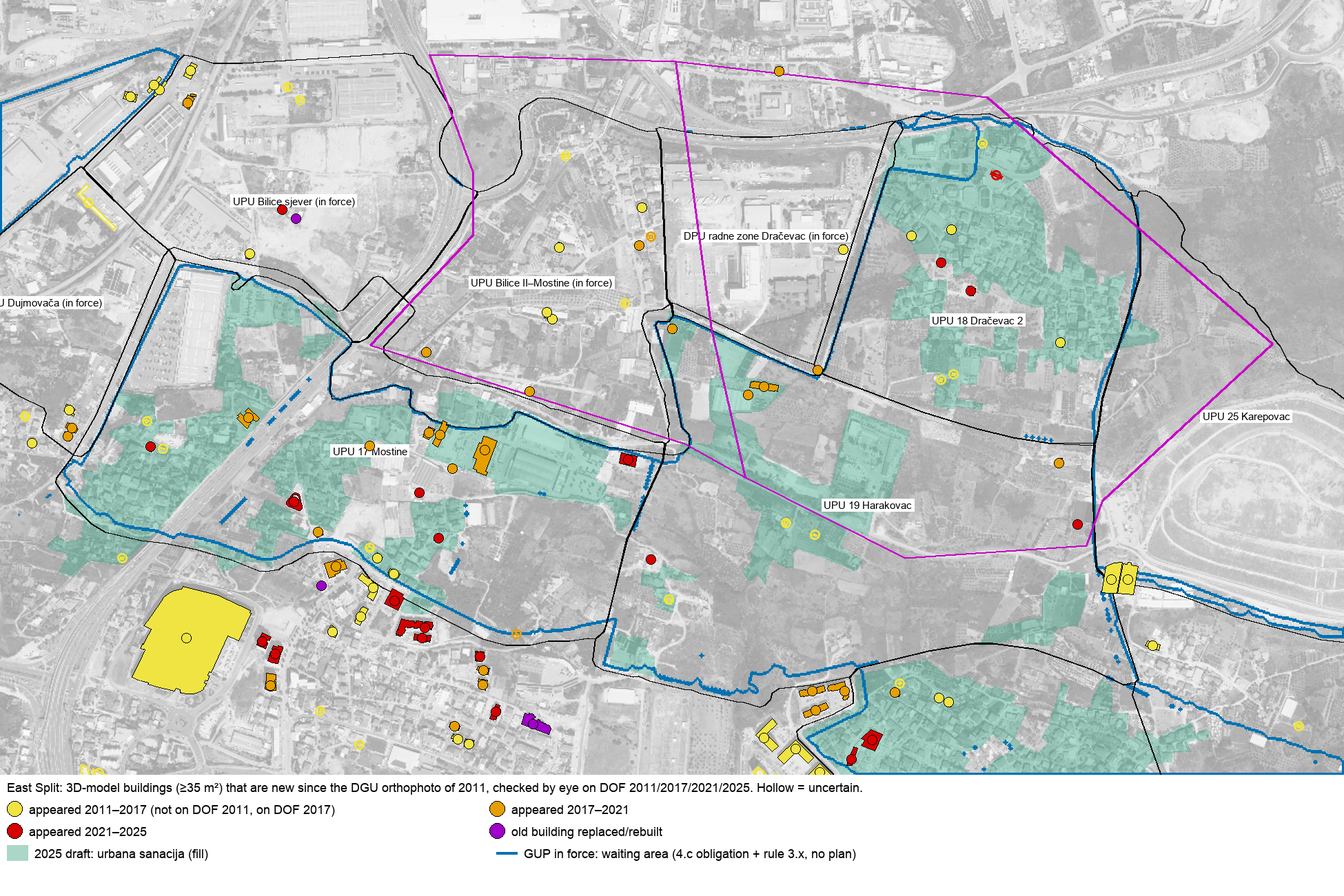
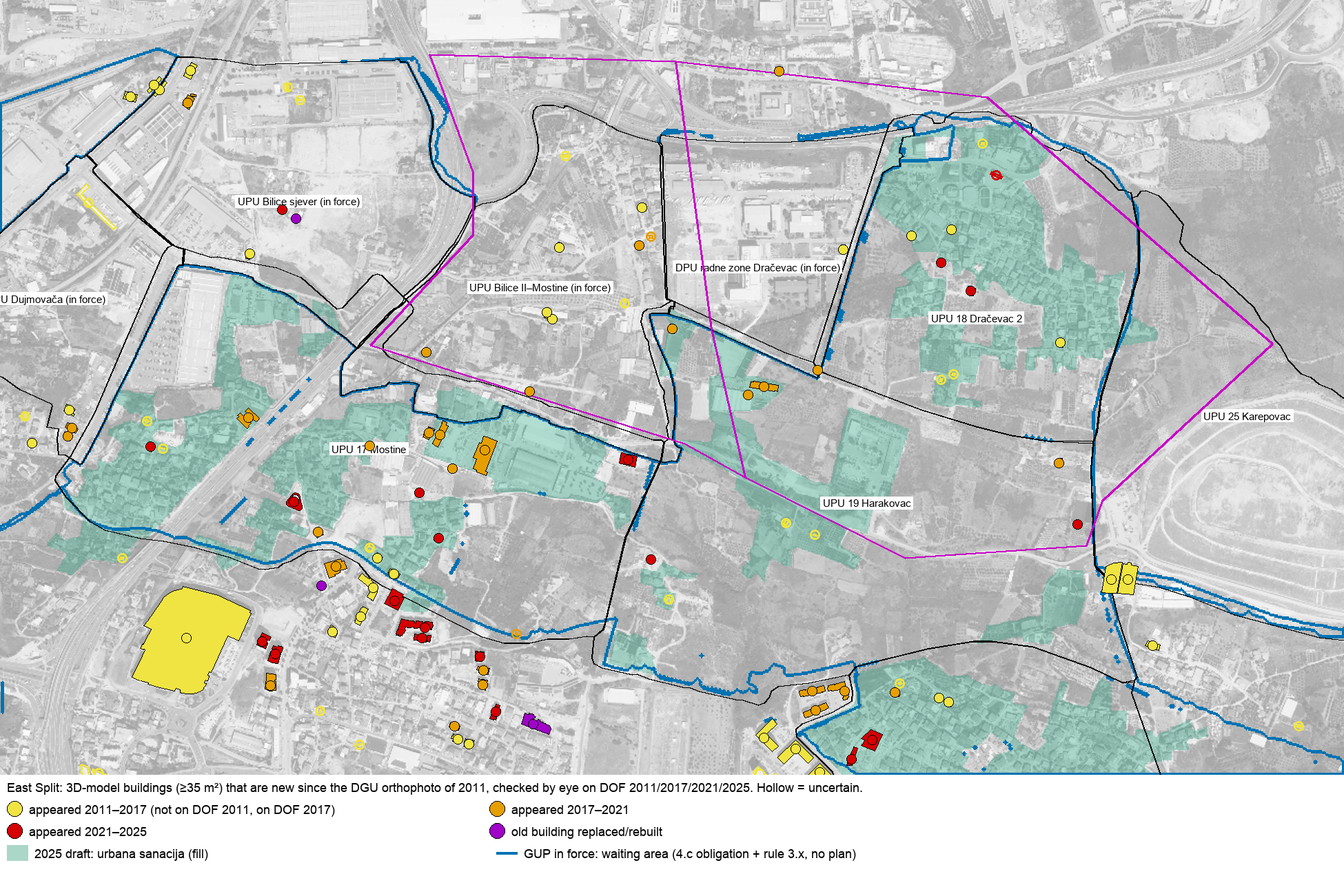
Izvještaj o zabrani do UPU-a: brojke po ispravljenim listovima i česticama
- Q1 i Q5 ponovno izračunati nakon pomaka listova 4.d/4.c prema listu 1,
  obuhvata planova na snazi s ISPU-a i bez ispune skrivene pod bijelim
  plohama (93 % umjesto 92 %, 635 umjesto 617 zgrada; slike 1. i 3.
  ponovno izrađene), uz bilješku o ispravcima.
- Novi odjeljak u Q4: koliko zemljišta za gradnju oznake zadržavaju
  (681 ha, od toga 206 ha slobodno, 132 ha na 1.730 neizgrađenih čestica;
  60 ha stambenog), po UPU-ima, s vezom na /gup/zabrana.
- Veza na neobjavljeni popis akata s ISPU-a zamijenjena bilješkama o
  prikupljanju; dodana slika 2. koja je nedostajala.

diff --git a/reports/UPU building ban in sanation areas.md b/reports/UPU building ban in sanation areas.md
@@ -1,8 +1,8 @@
 # A sanation label, not new law, would freeze building
 
-*Research report, 27 September 2026. The question comes from a resident of east Split (Dračevac, Mostine, Bilice). The permit evidence also covers the neighbouring eastern suburbs.*
+*Research report, 27 September 2026; figures updated 28 September 2026 (see the end of Q1). The question comes from a resident of east Split (Dračevac, Mostine, Bilice). The permit evidence also covers the neighbouring eastern suburbs.*
 
-The resident has the facts essentially right, and the puzzle has a precise answer: **a ban would come from a new label on the same land, not from a new law**. In east Split, **92% of the area where the April 2025 draft makes building wait for a UPU** (urbanistički plan uređenja, a detailed neighbourhood plan) **already waits under map 4.c of the GUP in force**, and 99% of the draft's "urbana sanacija" land lies inside the UPU obligation in force today. National law has barred permits for new buildings until a UPU is adopted **since 1 January 2014**, and the new Zakon o prostornom uređenju (NN 155/25, in force since 1 January 2026) keeps that bar. The bar, however, applies only to land a plan designates as neuređeno (unserviced), urbana preobrazba (transformation) or urbana sanacija (sanation), and **the GUP in force (SGGS 55/14) never gave residential east Split those labels**. Read closely, the GUP's own text does route new houses there through the missing UPU. The City has not applied that reading: the Ministry's register shows **about 57 approvals for new residential buildings in such areas from 2016 to September 2026, six of them in Dračevac**, and no refusal based on the missing plan. The draft would call the same land "urbana sanacija" or "neuređeno". That turns a plan-made obligation, which the permit office has treated as porous, into a condition of the national permit law that the office cannot read away, and the draft also removes the GUP's own routes for extending existing houses. **That label, and the choice of a UPU over UPU-level detail in the GUP itself, are the City's choices; the law allows either.** Building did continue, though less than it may seem: about 4% of the buildings in the east-Split waiting area are new since 2017, and legalisations of houses built before 2011 outnumber new-build permits by more than 15 to 1. The draft is not adopted, so nothing is banned today. The City's call for GUP initiatives, open from 1 October to 16 November 2026, is the moment to ask for a different label.
+The resident has the facts essentially right, and the puzzle has a precise answer: **a ban would come from a new label on the same land, not from a new law**. In east Split, **93% of the area where the April 2025 draft makes building wait for a UPU** (urbanistički plan uređenja, a detailed neighbourhood plan) **already waits under map 4.c of the GUP in force**, and 99% of the draft's "urbana sanacija" land lies inside the UPU obligation in force today. National law has barred permits for new buildings until a UPU is adopted **since 1 January 2014**, and the new Zakon o prostornom uređenju (NN 155/25, in force since 1 January 2026) keeps that bar. The bar, however, applies only to land a plan designates as neuređeno (unserviced), urbana preobrazba (transformation) or urbana sanacija (sanation), and **the GUP in force (SGGS 55/14) never gave residential east Split those labels**. Read closely, the GUP's own text does route new houses there through the missing UPU. The City has not applied that reading: the Ministry's register shows **about 57 approvals for new residential buildings in such areas from 2016 to September 2026, six of them in Dračevac**, and no refusal based on the missing plan. The draft would call the same land "urbana sanacija" or "neuređeno". That turns a plan-made obligation, which the permit office has treated as porous, into a condition of the national permit law that the office cannot read away, and the draft also removes the GUP's own routes for extending existing houses. **That label, and the choice of a UPU over UPU-level detail in the GUP itself, are the City's choices; the law allows either.** Citywide the labels cover 681 ha. What they would hold back is the part of it still free for a new building: 206 ha, of which 132 ha lies on 1,730 parcels with nothing built on them. Building did continue, though less than it may seem: about 4% of the buildings in the east-Split waiting area are new since 2017, and legalisations of houses built before 2011 outnumber new-build permits by more than 15 to 1. The draft is not adopted, so nothing is banned today. The City's call for GUP initiatives, open from 1 October to 16 November 2026, is the moment to ask for a different label.
 
 Four instruments matter here, and only two of them bind today.
 
@@ -13,26 +13,28 @@ Four instruments matter here, and only two of them bind today.
 | Izmjene i dopune GUP-a (GUP amendments), April 2025 draft for the repeat consultation | **Proposed only.** Stalled through 2025–26. The report on the repeat consultation was signed on 2–3 Sep 2026. The procedure is being finished under the old ZPU (NN 153/13), per NN 155/25 art. 236(2) ([report on the repeat consultation](https://split.hr/ukljuci-se/prostorno-planska-dokumentacija/izvjesca-o-javnim-raspravama/izvjesce-o-ponovnoj-javnoj-raspravi-o-prijedlogu-izmjena-i-dopuna-generalnog-urbanistickog-plana-splita-za-ponovnu-javnu-raspravu)) | Map 4.d fills for sanacija and neuređeno; čl. 103(1) and čl. 105(5) |
 | Public call for initiatives to amend the PPUG and GUP | **1 Oct – 16 Nov 2026** ([Dalmacija Danas, 25 Sep 2026](https://www.dalmacijadanas.hr/grad-split-otvara-javni-poziv-za-izmjene-gup-a-i-ppug-a-gradani-i-poslovni-subjekti-mogu-slati-svoje-inicijative/)) | The next formal opening for residents |
 
-## Q1. Are the areas really the same? Yes: 92% of the draft's waiting area already waits
+## Q1. Are the areas really the same? Yes: 93% of the draft's waiting area already waits
 
 **Answer: yes for east Split, almost exactly. Where the two maps differ, the draft is looser, not stricter.**
 
-The comparison uses the project site's own model of both plans. Under the GUP in force, new building "waits" where three conditions meet: the land lies inside a UPU or DPU obligation on map 4.c, it falls under a low-consolidated (niskokonsolidirano) urban rule 3.x on the urban-rules sheet, and no plan is in force there (čl. 104–105). Under the draft, building waits where map 4.d fills the land as sanacija, preobrazba or neuređeno outside a plan in force (čl. 103(1)). A blue UPU outline with no fill is only a "preporuka" (recommendation), and building there goes ahead directly. All three sheets were rasterised on a 2 m grid from the City's PDFs. Their median offset from the official plan outlines is 4–7 m, and shifting either mask by 10 m changes the shares below by at most two percentage points ([map 4.c, in force](https://split.hr/strateski-dokumenti/prostorno-planska-dokumentacija/planovi-na-snazi/gis-podatci?EntryId=3179&Command=Core_Download); [urban-rules sheet 4.b](https://split.hr/strateski-dokumenti/prostorno-planska-dokumentacija/planovi-na-snazi/gis-podatci?EntryId=3197&Command=Core_Download); [draft map 4.d](https://split.hr/Portals/0/Dokumenti/Prostorno-planska/Izmjene%20i%20dopune%20Generalnog%20urbanisti%C4%8Dkog%20plana%20Splita%20za%20ponovnu%20javnu%20raspravu/4_d%20Podrucja%20i%20dijelovi%20primjene%20planskih%20mjera%20zastite.pdf)).
+The comparison uses the project site's own model of both plans. Under the GUP in force, new building "waits" where three conditions meet: the land lies inside a UPU or DPU obligation on map 4.c, it falls under a low-consolidated (niskokonsolidirano) urban rule 3.x on the urban-rules sheet, and no plan is in force there (čl. 104–105). Under the draft, building waits where map 4.d fills the land as sanacija, preobrazba or neuređeno outside a plan in force (čl. 103(1)). Plans in force are taken at their real boundaries, from each plan's own sheets on ISPU, not from the schematic hatch of map 4.d. A blue UPU outline with no fill is only a "preporuka" (recommendation), and building there goes ahead directly. All three sheets were rasterised on a 2 m grid from the City's PDFs. Their median offset from the official plan outlines is 4–7 m, and shifting either mask by 10 m changes the shares below by at most two percentage points ([map 4.c, in force](https://split.hr/strateski-dokumenti/prostorno-planska-dokumentacija/planovi-na-snazi/gis-podatci?EntryId=3179&Command=Core_Download); [urban-rules sheet 4.b](https://split.hr/strateski-dokumenti/prostorno-planska-dokumentacija/planovi-na-snazi/gis-podatci?EntryId=3197&Command=Core_Download); [draft map 4.d](https://split.hr/Portals/0/Dokumenti/Prostorno-planska/Izmjene%20i%20dopune%20Generalnog%20urbanisti%C4%8Dkog%20plana%20Splita%20za%20ponovnu%20javnu%20raspravu/4_d%20Podrucja%20i%20dijelovi%20primjene%20planskih%20mjera%20zastite.pdf)).
 
-The study window covers 187.6 ha: the Dračevac and Bilice kvarts plus the draft's UPU 17 Mostine, UPU 18 Dračevac 2 and UPU 19 Harakovac. In that window the in-force UPU outline and the draft's UPU outlines are nearly identical. The **Jaccard index is 0.98** (overlap divided by union, where 1.0 means identical): 137.1 ha are shared out of 137.3 ha and 140.2 ha. **92% of the draft's waiting area already waits under the GUP in force.** **99.2% of the draft's urbana sanacija lies inside the in-force UPU obligation**, and 74% of it is urban rule 3.1. In the draft's UPU Dračevac 2, 98.6% of the land is rule 3.1.
+The study window covers 187.3 ha: the Dračevac and Bilice kvarts plus the draft's UPU 17 Mostine, UPU 18 Dračevac 2 and UPU 19 Harakovac. In that window the in-force UPU outline and the draft's UPU outlines are nearly identical. The **Jaccard index is 0.98** (overlap divided by union, where 1.0 means identical): 137.2 ha are shared out of 137.3 ha and 140.1 ha. **93% of the draft's waiting area already waits under the GUP in force.** **99.4% of the draft's urbana sanacija lies inside the in-force UPU obligation**, and 74% of it is urban rule 3.1. In the draft's UPU Dračevac 2, 97% of the land is rule 3.1.
 
 | Area | Waits under GUP in force (ha) | Waits under draft (ha) | Both (ha) | Draft fill: sanacija / neuređeno (ha) |
 |---|---|---|---|---|
-| UPU 18 Dračevac 2 | 27.0 | 24.9 | 24.8 | 13.9 / 13.0 |
-| UPU 17 Mostine | 42.0 | 32.3 | 31.9 | 19.0 / 18.1 |
-| UPU 19 Harakovac | 47.5 | 39.3 | 38.9 | 10.8 / 29.6 |
-| Whole east-Split window | 116.6 | 104.0 | 95.7 | 43.9 sanacija |
+| UPU 18 Dračevac 2 | 28.0 | 25.7 | 25.7 | 13.5 / 13.0 |
+| UPU 17 Mostine | 43.2 | 33.0 | 32.9 | 19.0 / 18.1 |
+| UPU 19 Harakovac | 47.8 | 39.1 | 39.0 | 10.8 / 29.6 |
+| Whole east-Split window | 119.3 | 105.5 | 97.6 | 43.5 sanacija |
 
-Where the maps differ, the draft relaxes rather than adds. **About 20.9 ha that wait under the GUP in force become "preporuka" in the draft**, which means direct building. By the site's land-use raster, that land is mostly business-zoned (I/K) land in Mostine and Harakovac, a share not yet checked against the legend. **The draft adds only 8.3 ha of new waiting land**, almost all of it on the edge of the Karepovac city project. Citywide the maps diverge far more (Jaccard 0.51): the draft lifts the obligation from about 345 ha of consolidated city and adds a large preobrazba wait on city-project land such as Kopilica and the shipyard. Even so, 98% of the draft's sanacija outside plans in force already waits under the GUP in force.
+Where the maps differ, the draft relaxes rather than adds. **About 21.7 ha that wait under the GUP in force become "preporuka" in the draft**, which means direct building. By the site's land-use raster, that land is mostly business-zoned (I/K) land in Mostine and Harakovac, a share not yet checked against the legend. **The draft adds only 7.8 ha of new waiting land**, almost all of it on the edge of the Karepovac city project. Citywide the maps diverge far more (Jaccard 0.51): the draft lifts the obligation from about 350 ha of consolidated city and adds a large preobrazba wait on city-project land such as Kopilica and the shipyard. Even so, 99% of the draft's sanacija outside plans in force already waits under the GUP in force.
 
 ![East Split: where building waits under the GUP in force, under the April 2025 draft, or both](UPU%20building%20ban%20in%20sanation%20areas%20-%20fig1%20regime%20overlap.png)
 
-*Figure 1. The waiting regime in east Split on a 2 m grid over the 2025 orthophoto. Vermilion means building waits under both plans, blue only under the GUP in force, and orange only under the draft; lilac marks plans in force and magenta the site's kvart polygons. Almost all of Dračevac 2, Mostine and Harakovac is vermilion. The blue patches are built business plots and road corridors, and the orange strip is Karepovac. Sources: the 4.c, 4.b and 4.d sheets cited above.*
+*Figure 1. The waiting regime in east Split on a 2 m grid over the 2025 orthophoto. Vermilion means building waits under both plans, blue only under the GUP in force, and orange only under the draft; lilac marks plans in force at their real (ISPU) boundaries and magenta the site's kvart polygons. Almost all of Dračevac 2, Mostine and Harakovac is vermilion. The blue patches are built business plots and road corridors, and the orange strip is Karepovac. Sources: the 4.c, 4.b and 4.d sheets cited above.*
+
+**Figures updated 28 September 2026.** Three corrections to the underlying map data were made after the first version of this report, and every area figure in Q1 and Q5 and in Figures 1 and 3 was recomputed with them. The draft's sheets 4.d and 4.c were found to sit about 3.7 m and 4 m off sheet 1 (measured by correlating the base map), and are now shifted into place. Plans in force now use their real boundaries, cut from each plan's own sheets on ISPU. Map 4.d draws them schematically: DPU dijela područja Dračevac, for example, covers 1.5 ha on the sheet, across a road and houses, but the plan itself is a single 0.46 ha plot. Finally, fill that the sheet hides under the white, hatched boxes of plans in force no longer counts, since the sheet does not show it. The shares moved by one or two points, and no conclusion changed.
 
 One caveat carries through the rest of this report. "Waits under the GUP in force" is a reading of the plan text, not a record of what the permit office does. Q2 examines that reading and Q5 the practice.
 
@@ -117,7 +119,7 @@ NN 155/25 art. 106(2) requires a UPU for, among others, land "koji nisu izgrađe
 
 The new law has no deeming rule like art. 201. Its sanation and transformation category requires that the change be "planned", which is a plan designation, so on a literal reading the old GUP's unlabelled 4.c areas are not caught. The "not built and not serviced" category is worded as a fact rather than a designation, so it could catch empty unserviced plots even under an old plan. That is the law researcher's reading, and no guidance confirms it. Neither the old nor the new ZPU puts any time limit on the bar.
 
-The register fits the literal reading. At least two new-build permits whose case numbers carry the year 2026, and which were therefore presumably filed and decided under the new law, were approved inside draft-UPU areas: UP/I-361-03/26-01/000088, a six-flat building in Kila approved on 29 June 2026 on land the draft shades sanacija, and UP/I-361-03/26-01/000097 in Orišac, approved on 14 September 2026 ([ISPU register](https://ispu.mgipu.hr/); [harvested list](../research_notes/UPU%20building%20ban%20in%20sanation%20areas/split_permit_practice%20-%20ISPU%20akti.csv)).
+The register fits the literal reading. At least two new-build permits whose case numbers carry the year 2026, and which were therefore presumably filed and decided under the new law, were approved inside draft-UPU areas: UP/I-361-03/26-01/000088, a six-flat building in Kila approved on 29 June 2026 on land the draft shades sanacija, and UP/I-361-03/26-01/000097 in Orišac, approved on 14 September 2026 ([ISPU register](https://ispu.mgipu.hr/); [notes on the harvest](../research_notes/UPU%20building%20ban%20in%20sanation%20areas/split_permit_practice.md); the raw list of acts is not published because it gives the addresses of private permits).
 
 | Period | Law | UPU obligatory by law for | Before the UPU |
 |---|---|---|---|
@@ -155,13 +157,36 @@ The exception list in čl. 105(5) is the City's own. The law researcher reads it
 
 The City's preference is on record. The county had warned that such plans "često … ostaju 'mrtvo slovo na papiru'" (often stay a dead letter). The City replied that a GUP acting as an implementing plan is "anomalija u sustavu planiranja" (an anomaly in the planning system) and that narrower plans "treba biti što više" (there should be as many as possible) ([Izvješće, 26 Mar 2025, p. 148](https://split.hr/ukljuci-se/prostorno-planska-dokumentacija/izvjesca-o-javnim-raspravama/izvjesce-o-javnoj-raspravi-o-prijedlogu-izmjena-i-dopuna-generalnog-urbanistickog-plana-splita-i-strateskoj-studiji-o-utjecaju-na-okolis-izmjena-i-dopuna-generalnog-urbanistickog-plana-splita)).
 
+### How much buildable land the labels would hold back
+
+The bar does not touch what is already built. The draft's labels cover **681 ha** citywide (95 ha urbana sanacija, 309 ha urbana preobrazba and 277 ha neuređeno), counting only fill the sheet shows, inside the GUP boundary and outside plans in force. Much of that is built up: streets, legalised houses, the shipyard. What the bar would hold back is the land still free for a new building. The project site counts it parcel by parcel, with the same model as its `/gup` chart. Free land is land not taken by a building with the plot the rules require for it, or by streets, parking or parks. It must also be large enough, together with free neighbouring land, for a new building plot. Public-use zones are left out because public buildings may still be built before the UPU.
+
+On that count, **206 ha of free land would wait for a UPU**. Of this, **132 ha lies on 1,730 parcels with nothing built on them** (no building, garden of a house or building site), and 74 ha lies on the free parts of 424 built parcels, such as a large yard or the unbuilt part of a business plot. By zoning, 136 ha is business land, 60 ha housing and mixed, and 10 ha tourism.
+
+| UPU the land would wait for | Free land (ha) | Unbuilt parcels |
+|---|---|---|
+| UPU gradskog projekta Karepovac | 35.3 | 107 |
+| UPU TTTS | 35.0 | 384 |
+| UPU Harakovac | 25.8 | 145 |
+| UPU zapadnog dijela područja Kamen | 20.6 | 205 |
+| UPU Dračevac 2 | 12.9 | 68 |
+| UPU Mostine | 12.5 | 99 |
+| UPU sjevernog dijela Stobreča | 11.5 | 174 |
+| UPU gradski projekt Kopilica (zones a and b) | 9.7 | 129 |
+| UPU zona mješovite namjene Orišac | 9.3 | 59 |
+| UPU Kila | 6.9 | 51 |
+
+For housing, the draft's residential and mixed zones (S, M, K5) cover 792 ha, of which 180 ha is unused. **60 ha of that unused land (33%) would wait for a UPU.** 72 ha lies under plans in force, 24 ha could be built on directly under the GUP, and 23 ha is too small for a building plot or excluded by the zone's rules. Read strictly, the GUP in force already ties 80 ha of such land to plans that were never made. As Q5 shows, the City has kept issuing permits there.
+
+The site's page `/gup/zabrana` maps these areas and parcels, with an address lookup ([script and data](https://github.com/tomislavmamic/kvart/tree/main/scripts/gup-grad)).
+
 ## Q5. Were buildings built, and permitted? Yes, but fewer than it looks
 
 **Answer: permits for new houses and small blocks were issued in these areas throughout the decade and still are, and no refusal because of the missing UPU was found. But the number of genuinely new buildings is modest, construction was denser just outside the waiting area, and most of the stock is legalised pre-2011 building.**
 
 ### About 57 new-build approvals, six in Dračevac
 
-The Ministry's public register, ISPU, was harvested for every act inside the draft-UPU polygons, and each point was placed on map 4.c ([ISPU](https://ispu.mgipu.hr/); [harvested list](../research_notes/UPU%20building%20ban%20in%20sanation%20areas/split_permit_practice%20-%20ISPU%20akti.csv)). It shows **about 57 approvals for new residential or residential-business buildings between 2016 and September 2026**. Every one sits on the 4.c "obveza izrade UPU" grid, at least 30 m from any plan in force. By area: 14 in western Kamen, 12 in Kila, 11 in Orišac, 7 in northern Stobreč, **6 in Dračevac**, 5 in Mostine and 2 in Žnjan 2. They range from single houses to blocks of 6, 9, 13 and 42 flats. **Issuance accelerated in 2025–26**, after both drafts were published. An unadopted draft has no legal effect, and the permit office has behaved accordingly.
+The Ministry's public register, ISPU, was harvested for every act inside the draft-UPU polygons, and each point was placed on map 4.c ([ISPU](https://ispu.mgipu.hr/); [notes on the harvest](../research_notes/UPU%20building%20ban%20in%20sanation%20areas/split_permit_practice.md); the raw list of acts is not published, as it gives the addresses of private permits). It shows **about 57 approvals for new residential or residential-business buildings between 2016 and September 2026**. Every one sits on the 4.c "obveza izrade UPU" grid, at least 30 m from any plan in force. By area: 14 in western Kamen, 12 in Kila, 11 in Orišac, 7 in northern Stobreč, **6 in Dračevac**, 5 in Mostine and 2 in Žnjan 2. They range from single houses to blocks of 6, 9, 13 and 42 flats. **Issuance accelerated in 2025–26**, after both drafts were published. An unadopted draft has no legal effect, and the permit office has behaved accordingly.
 
 The six Dračevac approvals are all in residential north-east Dračevac (the draft's UPU Dračevac 2):
 
@@ -190,17 +215,17 @@ One pattern is suggestive, though not proof. Harakovac, where rule 3.2 has no "z
 
 ### About 4% of the buildings are new since 2017
 
-The count of new buildings used the City's 3D-model footprints, dated by eye on the state mapping agency's (DGU) orthophotos from 2011, 2017, 2021 and 2025/26 ([DOF 2011](https://geoportal.dgu.hr/services/dof/wms?SERVICE=WMS&REQUEST=GetCapabilities); [DOF 2017](https://geoportal.dgu.hr/services/inspire/orthophoto_2017/wms?SERVICE=WMS&REQUEST=GetCapabilities); [DOF 2025/26](https://geoportal.dgu.hr/services/inspire/orthophoto_2025_2026/wms?SERVICE=WMS&REQUEST=GetCapabilities); [building list](../research_notes/UPU%20building%20ban%20in%20sanation%20areas/new_buildings_east_split.csv)). The in-force waiting area of east Split has 617 buildings today. Of these, **32–44 appeared since 2011 (5–7%) and 23–25 since 2017 (about 4%, roughly three a year)**, and about a quarter of them are business halls or sports structures. In residential Dračevac 2 the count is **5–9 since 2011 and 2–3 since 2017**.
+The count of new buildings used the City's 3D-model footprints, dated by eye on the state mapping agency's (DGU) orthophotos from 2011, 2017, 2021 and 2025/26 ([DOF 2011](https://geoportal.dgu.hr/services/dof/wms?SERVICE=WMS&REQUEST=GetCapabilities); [DOF 2017](https://geoportal.dgu.hr/services/inspire/orthophoto_2017/wms?SERVICE=WMS&REQUEST=GetCapabilities); [DOF 2025/26](https://geoportal.dgu.hr/services/inspire/orthophoto_2025_2026/wms?SERVICE=WMS&REQUEST=GetCapabilities); [building list](../research_notes/UPU%20building%20ban%20in%20sanation%20areas/new_buildings_east_split.csv)). The in-force waiting area of east Split has 635 buildings today. Of these, **33–45 appeared since 2011 (5–7%) and 23–25 since 2017 (about 4%, roughly three a year)**, and about a quarter of them are business halls or sports structures. In residential Dračevac 2 the count is **5–9 since 2011 and 2–3 since 2017**.
 
 New construction was denser in the 150 m band just outside the waiting area: 10–12% new since 2011, although since 2017 the rates are similar (5% against 4%). The most visible new buildings, the Mall of Split and the towers near Kila and Brda, stand along the southern edge of Mostine, outside the area. Six of the new buildings inside the waiting area coincide with permit points, including the roughly 200 m² Dračevac 2 building permitted in July 2022.
 
 | Zone | Buildings today | New since 2011 | New since 2017 |
 |---|---|---|---|
-| Waiting area under the GUP in force | 617 | 32–44 (5–7%) | 23–25 (≈4%) |
-| Draft sanacija, outside plans in force | 529 | 20–31 | 13–14 |
+| Waiting area under the GUP in force | 635 | 33–45 (5–7%) | 23–25 (≈4%) |
+| Draft sanacija, outside plans in force | 540 | 19–30 | 12–13 |
 | Draft UPU 18 Dračevac 2 | 166 | 5–9 | 2–3 |
-| Draft UPU 17 Mostine | 248 | 14–18 | 12–13 |
-| Band up to 150 m outside the waiting area | 331 | 32–39 (10–12%) | 17 (5%) |
+| Draft UPU 17 Mostine | 250 | 14–18 | 12–13 |
+| Band up to 150 m outside the waiting area | 304 | 29–36 (10–12%) | 16–17 (5%) |
 
 Legalisation dwarfs permitting. In the draft-UPU areas, the ISPU layer of akti za uporabu (use acts, which include legalisation decisions) shows the following, mostly issued in 2013–2016:
 

diff --git a/research_notes/UPU building ban in sanation areas/spatial_overlap_new_buildings.md b/research_notes/UPU building ban in sanation areas/spatial_overlap_new_buildings.md
@@ -1,5 +1,7 @@
 # Spatial check of two premises: "virtually the same area" (GUP in force vs April 2025 draft) and "many new buildings in the last 10 years"
 
+> **Update 28 Sep 2026.** The figures below are from the first run. After the draft's sheets 4.d/4.c were shifted onto sheet 1 (~3.7/4 m), plans in force were switched to their ISPU boundaries and fill hidden under plan-in-force boxes was dropped, Q1 and Q5 were recomputed and the report carries the new values (e.g. 93% instead of 92%, 635 instead of 617 buildings). The two figures here were regenerated; the zone flags in `new_buildings_east_split.csv` are still from the first run.
+
 Scope: east Split (Dračevac, Mostine, Harakovac, Bilice), with citywide figures for part A. All work done 27 Sep 2026 on the repository's own sheet-rasterisation pipeline plus DGU orthophotos; nothing in the repo was modified. Figures and a building list are saved next to these notes:
 - `fig1_regime_overlap_east_split.png` — where the in-force and draft "building waits for a UPU" areas coincide or differ.
 - `fig2_new_buildings_east_split.png` — every building that is new since the 2011 orthophoto, coloured by period, over the two regimes.
